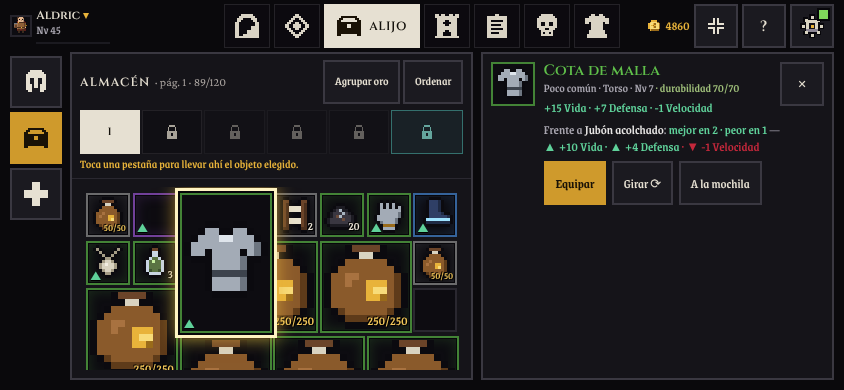
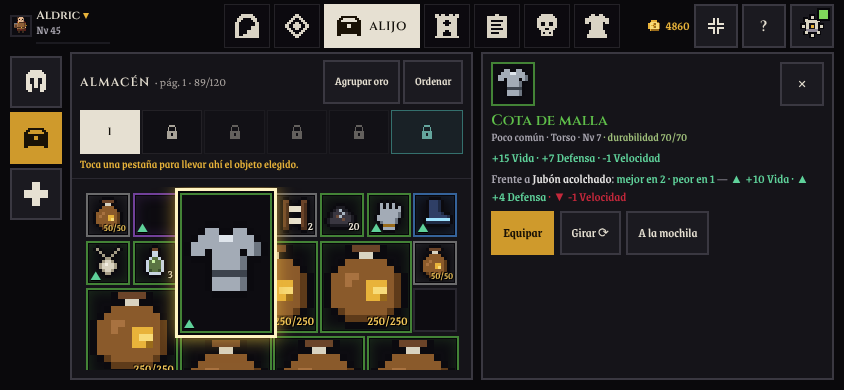
Gravevow (Vesrions 0.9.7.9)

Changed region(s): [[0.5545, 0.1538, 0.955, 0.6769]]

diff --git a/src/game/ui/screens/Alijo.tsx b/src/game/ui/screens/Alijo.tsx
@@ -30,6 +30,10 @@ import { RecruitOffer } from '../RecruitOffer';
 import { baseBody } from '../../state/medicalActions';
 import { useLayout } from '../../../config/ui';
 import { ItemCard } from './ItemCard';
+import { PixelIcon } from '../../../shared/community';
+import { TAB_ICONS, VENDOR_TAB_ICONS } from '../kit/tabIcons';
+const HELM = ['...XXXXXX...', '..XXXXXXXX..', '.XXXXXXXXXX.', '.XXXXXXXXXX.', '.XX..XX..XX.', '.XX..XX..XX.', '.XX..XX..XX.', '.XXX.XX.XXX.', '.XXX.XX.XXX.', '.XXX....XXX.', '..XX....XX..', '............'];
+const SIDE_ICONS: Record<string, string[]> = { gear: HELM, storage: TAB_ICONS.stash, status: VENDOR_TAB_ICONS.infirmary };
 import { sfx } from '../../audio';
 import { SkinSlot, SkinPicker } from './Atuendos';
 import { HeroStats, LevelBar } from '../HeroStats';
@@ -130,17 +134,34 @@ export function Alijo({ onShop }: { onShop?: () => void }) {
     <StashPanel cols={stashCols} sel={sel} onSelect={onSelect} onEmpty={onEmpty}
       onQuick={(l, st) => { if (getItem(st.itemId).use?.kind === 'need') actions.eat(l); else actions.quickMove(l, 'backpack'); clear(); }} onAlt={(l) => { actions.quickMove(l, 'backpack'); clear(); }} />
   );
-  const card = <ItemCard loc={sel} mode={MODE} onClear={clear} compact={phone} />;
+  const card = <ItemCard loc={sel} mode={MODE} onClear={clear} compact={phone} stacked={(phone && view !== 'status') || (layout === 'tablet' && view === 'gear')} />;
   const status = <StatusView withNeeds={phone} />;
   const seg = (opts: { id: 'gear' | 'storage' | 'status'; label: string }[]) => (
     <Segmented options={opts} value={view} onChange={(v) => { setView(v); setSel(null); sfx('click'); }} testId="alijo-seg" />
   );
 
   if (phone) {
+    // Fase 3: pestañas en columna de iconos a la izquierda y ficha fija a la derecha (no tapa nada)
+    const opts = [{ id: 'gear', label: 'Equipo' }, { id: 'storage', label: 'Almacén' }, { id: 'status', label: 'Heridas' }] as const;
+    const tabs = (
+      <div className="vtabs-col alijo-side" role="tablist" aria-orientation="vertical" data-testid="alijo-seg">
+        {opts.map((o) => (
+          <button key={o.id} role="tab" aria-selected={view === o.id} aria-label={o.label} title={o.label} onClick={() => { setView(o.id); setSel(null); sfx('click'); }} data-testid={`seg-${o.id}`}>
+            <PixelIcon rows={SIDE_ICONS[o.id]} size={24} color={view === o.id ? '#1a1206' : 'currentColor'} />
+          </button>
+        ))}
+      </div>
+    );
+    const sheet = (
+      <Panel className="min-h-0 alijo-sheet" bodyClassName="overflow-y-auto scroll-thin" testId="item-sheet">
+        {sel ? <div className="relative"><button className="btn icon-btn absolute right-0 top-0" onClick={clear} aria-label="Cerrar la ficha">✕</button>{card}</div>
+          : <div className="h-full flex flex-col items-center justify-center text-center text-muted gap-2 px-2"><span className="font-display text-sm tracking-wide">{opts.find((o) => o.id === view)!.label}</span><span className="text-sm">Toca un objeto para ver su ficha aquí.</span></div>}
+      </Panel>
+    );
     return (
-      <div className="h-full flex flex-col items-center" style={{ padding: '0 max(var(--pad), env(safe-area-inset-right)) var(--pad) max(var(--pad), env(safe-area-inset-left))', gap: 'var(--gap)' }} data-testid="screen-stash">
-        {seg([{ id: 'gear', label: 'Equipo' }, { id: 'storage', label: 'Almacén' }, { id: 'status', label: 'Heridas' }])}
-        <div className="flex-1 min-h-0 w-full flex justify-center" style={{ gap: 'var(--gap)' }}>
+      <div className="h-full flex" style={{ padding: '0 max(var(--pad), env(safe-area-inset-right)) var(--pad) max(var(--pad), env(safe-area-inset-left))', gap: 'var(--gap)' }} data-testid="screen-stash">
+        {tabs}
+        <div className="flex-1 min-w-0 min-h-0 flex" style={{ gap: 'var(--gap)' }}>
           {view === 'status' ? (
             <>
               <Panel className="min-h-0 flex-[3]" bodyClassName="overflow-y-auto scroll-thin">{status}</Panel>
@@ -148,19 +169,20 @@ export function Alijo({ onShop }: { onShop?: () => void }) {
             </>
           ) : view === 'gear' ? (
             <>
-              <Panel className="min-h-0" bodyClassName="overflow-y-auto scroll-thin flex flex-col items-center"><RecruitOffer />{equipment}<div className="w-full mt-3" data-testid="alijo-hero"><LevelBar compact /><div className="mt-1"><HeroStats /></div></div></Panel>
-              <Panel className="min-h-0" bodyClassName="overflow-y-auto scroll-thin">{backpack}{pocket}</Panel>
+              <Panel className="min-h-0 shrink-0" bodyClassName="overflow-y-auto scroll-thin flex flex-col items-center"><div style={{ ['--slot-big' as string]: '44px' }}><RecruitOffer /><EquipmentGrid sel={sel} onSelect={onSelect} onEmpty={onEmpty} onDone={clear} onSkin={() => setPicker(true)} tight /></div><div className="w-full mt-3" data-testid="alijo-hero"><LevelBar compact /><div className="mt-1"><HeroStats /></div></div></Panel>
+              <Panel className="min-h-0 shrink-0" bodyClassName="overflow-y-auto scroll-thin">{backpack}{pocket}</Panel>
+              {sheet}
             </>
           ) : (
             <>
-              <Panel className="min-h-0" bodyClassName="overflow-y-auto scroll-thin">{backpack}</Panel>
               {storage}
+              {sel ? sheet : <Panel className="min-h-0 shrink-0" bodyClassName="overflow-y-auto scroll-thin">{backpack}</Panel>}
             </>
           )}
         </div>
         {pickerModal}
-        {sel && (
-          <div className="absolute left-0 right-0 bottom-0 z-30 panel panel-gold p-3" style={{ paddingLeft: 'max(12px, env(safe-area-inset-left))', paddingRight: 'max(12px, env(safe-area-inset-right))' }} data-testid="item-sheet">
+        {view === 'status' && sel && (
+          <div className="absolute left-0 right-0 bottom-0 z-30 panel panel-gold p-3" data-testid="item-sheet-status">
             <button className="btn icon-btn absolute right-2 top-2" onClick={clear} aria-label="Cerrar la ficha">✕</button>
             <div className="pr-12">{card}</div>
           </div>
@@ -169,7 +191,7 @@ export function Alijo({ onShop }: { onShop?: () => void }) {
     );
   }
 
-  const side = layout === 'tablet' ? 288 : compact ? 280 : 340;
+  const side = layout === 'tablet' ? 256 : compact ? 280 : 340;
   const goldBox = (
     <div className="panel p-3 mt-4 flex flex-col gap-1 text-sm" data-testid="gold-box">
       <div className="flex justify-between items-center"><span className="text-stone-300">Oro</span><GoldAmount value={profile.gold} /></div>
@@ -196,11 +218,18 @@ export function Alijo({ onShop }: { onShop?: () => void }) {
     {deskSeg}
     <div className="flex-1 min-h-0 grid"
       style={{ gridTemplateColumns: `${side}px minmax(0,1fr) auto`, gap: 'var(--gap)' }}>
+      {sel && layout === 'tablet' ? (
+        // Fase 3 (tableta): la ficha ocupa la columna del aventurero; mochila y almacén siguen a la vista
+        <Panel className="min-h-0" bodyClassName="overflow-y-auto scroll-thin" testId="item-sheet">
+          <div className="relative"><button className="btn icon-btn absolute right-0 top-0" onClick={clear} aria-label="Cerrar la ficha">✕</button>{card}</div>
+        </Panel>
+      ) : (
       <Panel title={g("{Aventurero|Aventurera}")} className="min-h-0" bodyClassName="overflow-y-auto scroll-thin flex flex-col" testId="alijo-hero">
         <HeroColumn />
       </Panel>
+      )}
       <Panel title="Equipo" className="min-h-0" bodyClassName="min-h-0 flex flex-col">
-        <div ref={eqRef} style={twoCols ? (compact ? { ['--slot' as string]: '44px', ['--slot-big' as string]: '60px' } : { ['--slot' as string]: '60px', ['--slot-big' as string]: '84px' }) : layout === 'tablet' ? { ['--slot' as string]: '46px' } : undefined} className={`flex-1 min-h-0 ${twoCols ? 'flex flex-col overflow-hidden' : 'overflow-y-auto scroll-thin'}`} data-testid="equip-body" data-cols={twoCols ? 2 : 1}>
+        <div ref={eqRef} style={twoCols ? (compact ? { ['--slot' as string]: '44px', ['--slot-big' as string]: '60px' } : { ['--slot' as string]: '60px', ['--slot-big' as string]: '84px' }) : layout === 'tablet' ? { ['--slot' as string]: '44px' } : undefined} className={`flex-1 min-h-0 ${twoCols ? 'flex flex-col overflow-hidden' : 'overflow-y-auto scroll-thin'}`} data-testid="equip-body" data-cols={twoCols ? 2 : 1}>
           <div className="mb-3 shrink-0"><RecruitOffer /></div>
           {twoCols ? (
             // Escritorio ancho: equipo a la izquierda, mochila + bolsillo + oro a la derecha (sin desplazar)
@@ -219,7 +248,7 @@ export function Alijo({ onShop }: { onShop?: () => void }) {
           )}
         </div>
         {/* La ficha solo aparece al elegir un objeto (la ayuda de uso ya la enseñan el tutorial, la Intendencia y la Guía) */}
-        {sel && <div className="panel p-3 mt-3 shrink-0" data-testid="item-card-wrap">{card}</div>}
+        {sel && layout !== 'tablet' && <div className="panel p-3 mt-3 shrink-0" data-testid="item-card-wrap">{card}</div>}
       </Panel>
       {storage}
       {pickerModal}

diff --git a/src/game/ui/DungeonScreen.tsx b/src/game/ui/DungeonScreen.tsx
@@ -36,6 +36,9 @@ import { RISK, GOLD_SHARE, SHARE_FAIR_RATIO, GRIZK_REP, type RiskLevel } from '.
 import { shareVerdict } from '../../core/social';
 import { pinnedQuests, questDef, questProgress } from '../../core/quests';
 import { planPayment } from '../../core/share';
+import { useLayout } from '../../config/ui';
+import { Panel } from './kit';
+import { ItemCard } from './screens/ItemCard';
 
 export function DungeonScreen() {
   const host = useRef<HTMLDivElement>(null);
@@ -355,6 +358,7 @@ function ShareMeter({ given, total, single, name }: { given: number; total: numb
 
 function LootModal() {
   const s = useGame((x) => x);
+  const layout = useLayout();
   const [sel, setSel] = useState<Loc | null>(null);
   const [splitGive, setSplitGive] = useState(false);
   useClearOnDrop(useCallback(() => setSel(null), []));
@@ -363,6 +367,47 @@ function LootModal() {
   const grid = s.chests[session.id] ?? s.bags[session.id]?.grid ?? [];
   const share = session.shareAsked && s.rival.disposition === 'allied';
   const selStack = sel?.kind === 'grid' && sel.container === 'loot' ? grid[sel.index] : null;
+  if (layout !== 'desktop') {
+    // Fase 3 (tableta y móvil): «Del saco» | «Tuyo» | ficha, y «Cogerlo todo» como acción principal abajo
+    const phone = layout === 'phone';
+    const who = getWanderer(s.rival.who).name.split(' ')[0];
+    return (
+      <div className="absolute inset-0 z-50 flex fade-in inv-full" data-testid="loot-modal">
+        <Panel className="min-h-0 shrink-0 loot-from" bodyClassName="overflow-y-auto scroll-thin">
+          <div className="panel-title mb-2">{session.title}</div>
+          <GridView grid={grid} container="loot" cols={phone ? 4 : 6} lootId={session.id} equipment={s.expedition.equipment} mode="dungeon" selected={sel} onSelect={setSel}
+            onQuick={(l) => actions.quickMove(l, 'backpack', session.id)} onAlt={(l) => actions.quickMove(l, 'backpack', session.id)} />
+          {grid.every((x) => !x) && <p className="text-muted text-sm mt-2">Vacío.</p>}
+        </Panel>
+        <Panel className="min-h-0 shrink-0" bodyClassName="overflow-y-auto scroll-thin">
+          <div className="panel-title mb-2">Tuyo · {s.expedition.backpack.filter(Boolean).length}/{s.expedition.backpack.length}</div>
+          <GridView grid={s.expedition.backpack} container="backpack" cols={6} lootId={session.id} equipment={s.expedition.equipment} mode="dungeon"
+            onQuick={(l) => actions.quickMove(l, 'loot', session.id)} onAlt={(l) => actions.quickMove(l, 'loot', session.id)} />
+          {!s.tutorial && <CarryBar className="mt-2" />}
+        </Panel>
+        <Panel className="min-h-0 flex-1 min-w-0" bodyClassName="min-h-0 h-full flex flex-col">
+          <div className="flex justify-end mb-2"><button className="btn" onClick={() => actions.closeLoot()} data-testid="btn-close-loot">Cerrar ✕</button></div>
+          <div className="flex-1 min-h-0 overflow-y-auto scroll-thin">
+            {share && <div className="text-sm mb-2"><b className="text-heal">{who} espera su parte.</b> Elige algo y pulsa «Dar».<ShareMeter given={session.givenValue ?? 0} total={session.totalValue ?? 0} single={session.single} name={who} /></div>}
+            {selStack ? (
+              <div className="flex flex-col gap-2 items-start">
+                <ItemIcon itemId={selStack.itemId} size={44} />
+                <span className="font-display" style={{ color: RARITY_INFO[getItem(selStack.itemId).rarity].color }}>{getItem(selStack.itemId).name}{selStack.qty > 1 ? ` · ${selStack.qty}` : ''}</span>
+                <div className="flex gap-2 flex-wrap">
+                  <button className="btn" onClick={() => { actions.quickMove(sel!, 'backpack', session.id); setSel(null); }}>Coger</button>
+                  {share && <button className="btn" onClick={() => { actions.giveToRival(session.id, (sel as { index: number }).index); setSel(null); }} data-testid="btn-give">Dar a {who}</button>}
+                </div>
+              </div>
+            ) : <div className="text-muted text-sm">Toca un objeto del saco para verlo, o cógelo todo.</div>}
+          </div>
+          <div className="flex flex-col gap-2 mt-2">
+            {grid.some((x) => x?.itemId === 'gold_coins') && <button className="btn" onClick={() => actions.takeGold(session.id)} data-testid="btn-take-gold">Coger el oro ({gridGold(grid)})</button>}
+            <button className="btn btn-gold" style={{ minHeight: 52 }} onClick={() => actions.takeAll(session.id)} data-testid="btn-take-all">Cogerlo todo</button>
+          </div>
+        </Panel>
+      </div>
+    );
+  }
   return (
     <Modal onClose={() => actions.closeLoot()} wide testId="loot-modal">
       <div className="flex items-center justify-between mb-3 gap-2 sticky top-0 z-10 py-1" style={{ background: '#16151b' }}>
@@ -595,12 +640,39 @@ function ConfirmBetray() {
 
 function DungeonInventory() {
   const s = useGame((x) => x);
+  const layout = useLayout();
   const [sel, setSel] = useState<Loc | null>(null);
   useClearOnDrop(useCallback(() => setSel(null), []));
   const clear = useCallback(() => setSel(null), []);
   if (!s.expedition || !s.profile) return null;
   const ch = s.profile.character;
   const stats = computeStats(ch.classId, ch.level, s.expedition.equipment);
+  if (layout !== 'desktop') {
+    // Fase 3 (tableta y móvil): pantalla completa en tres columnas; la ficha a la derecha no tapa nada
+    const phone = layout === 'phone';
+    return (
+      <div className="absolute inset-0 z-50 flex fade-in inv-full" data-testid="dungeon-inventory">
+        <Panel className="min-h-0 shrink-0" bodyClassName="overflow-y-auto scroll-thin">
+          <EquipmentView equipment={s.expedition.equipment} selected={sel} onSelect={setSel} mode="dungeon" portrait={<PlayerSprite scale={phone ? 2 : 4} />} />
+          <div className="mt-3"><StatsList stats={stats} resourceName={CLASSES[ch.classId].resourceName} /></div>
+        </Panel>
+        <Panel className="min-h-0 shrink-0" bodyClassName="overflow-y-auto scroll-thin">
+          <div className="flex items-center justify-between gap-2 mb-2"><span className="panel-title">Mochila · {s.expedition.backpack.filter(Boolean).length}/{s.expedition.backpack.length}</span>
+            <span className="flex gap-1"><button className="btn text-sm" onClick={() => actions.groupGold('backpack')} data-testid="group-gold-dungeon">Agrupar oro</button><button className="btn text-sm" onClick={() => actions.sortContainer('backpack')}>Ordenar</button></span></div>
+          <GridView grid={s.expedition.backpack} container="backpack" cols={6} equipment={s.expedition.equipment} mode="dungeon" selected={sel} onSelect={setSel}
+            onQuick={(l, st) => (getItem(st.itemId).slot ? actions.quickEquip(l) : getItem(st.itemId).use ? actions.useItem(l) : undefined)} />
+          {!s.tutorial && <CarryBar className="mt-2" />}
+          <div className="mt-3 text-sm text-gold mb-1">Bolsillo seguro · no se pierde al morir</div>
+          <GridView grid={s.expedition.pocket} container="pocket" cols={3} equipment={s.expedition.equipment} mode="dungeon" selected={sel} onSelect={setSel} onQuick={(l) => actions.quickMove(l, 'backpack')} />
+        </Panel>
+        <Panel className="min-h-0 flex-1 min-w-0" bodyClassName="overflow-y-auto scroll-thin flex flex-col">
+          <div className="flex justify-end mb-2"><button className="btn" onClick={() => actions.closeModal()} data-testid="btn-close-inventory">Cerrar ✕</button></div>
+          {sel ? <ItemCard loc={sel} mode="dungeon" onClear={clear} compact={phone} stacked />
+            : <div className="flex-1 flex items-center justify-center text-center text-muted text-sm px-2">Toca un objeto para ver su ficha aquí.</div>}
+        </Panel>
+      </div>
+    );
+  }
   return (
     <Modal onClose={() => actions.closeModal()} wide testId="dungeon-inventory">
       <div className="flex items-center justify-between mb-3"><h2 className="panel-title text-xl">Inventario</h2><div className="flex gap-2">

diff --git a/mockups/fase3-inventario/index.html b/mockups/fase3-inventario/index.html
@@ -1,1 +1,1 @@
-<!doctype html><meta charset=utf-8><title>Fase 3 · Alijo móvil</title><style>body{background:#111;color:#ddd;font-family:sans-serif;padding:20px}.r{display:flex;gap:16px;flex-wrap:wrap}img{width:844px;max-width:100%;border:1px solid #444}</style><h1>Fase 3 · Alijo en el móvil: pestañas en columna de iconos y ficha fija a la derecha</h1><h2>1-equipo</h2><div class=r><figure><img src="antes/movil-1-equipo.png"><figcaption>Antes</figcaption></figure><figure><img src="despues/movil-1-equipo.png"><figcaption>Maqueta</figcaption></figure></div><h2>2-ficha</h2><div class=r><figure><img src="antes/movil-2-ficha.png"><figcaption>Antes</figcaption></figure><figure><img src="despues/movil-2-ficha.png"><figcaption>Maqueta</figcaption></figure></div><h2>3-almacen</h2><div class=r><figure><img src="antes/movil-3-almacen.png"><figcaption>Antes</figcaption></figure><figure><img src="despues/movil-3-almacen.png"><figcaption>Maqueta</figcaption></figure></div><h2>3b-almacen-ficha</h2><div class=r><figure><img src="antes/movil-3b-almacen-ficha.png"><figcaption>Antes</figcaption></figure><figure><img src="despues/movil-3b-almacen-ficha.png"><figcaption>Maqueta</figcaption></figure></div><h2>4-heridas</h2><div class=r><figure><img src="antes/movil-4-heridas.png"><figcaption>Antes</figcaption></figure><figure><img src="despues/movil-4-heridas.png"><figcaption>Maqueta</figcaption></figure></div>
+<!doctype html><meta charset=utf-8><title>Fase 3 · Inventario</title><style>body{background:#111;color:#ddd;font-family:sans-serif;padding:20px}.r{display:flex;gap:16px;flex-wrap:wrap;align-items:flex-start}img{max-width:900px;width:100%;border:1px solid #444}figure{margin:0;flex:1;min-width:300px}</style><h1>Fase 3 · Inventario: antes y resultado real</h1><h2>escritorio</h2><h3>1-equipo</h3><div class=r><figure><img src="antes/escritorio-1-equipo.png"><figcaption>Antes</figcaption></figure><figure><img src="real/escritorio-1-equipo.png"><figcaption>Real</figcaption></figure></div><h3>2-ficha</h3><div class=r><figure><img src="antes/escritorio-2-ficha.png"><figcaption>Antes</figcaption></figure><figure><img src="real/escritorio-2-ficha.png"><figcaption>Real</figcaption></figure></div><h3>4-heridas</h3><div class=r><figure><img src="antes/escritorio-4-heridas.png"><figcaption>Antes</figcaption></figure><figure><img src="real/escritorio-4-heridas.png"><figcaption>Real</figcaption></figure></div><h3>5-expedicion-inventario</h3><div class=r><figure><img src="antes/escritorio-5-expedicion-inventario.png"><figcaption>Antes</figcaption></figure><figure><img src="real/escritorio-5-expedicion-inventario.png"><figcaption>Real</figcaption></figure></div><h3>5b-expedicion-ficha</h3><div class=r><figure>(antes no había esta vista)</figure><figure><img src="real/escritorio-5b-expedicion-ficha.png"><figcaption>Real</figcaption></figure></div><h3>6-saco</h3><div class=r><figure><img src="antes/escritorio-6-saco.png"><figcaption>Antes</figcaption></figure><figure><img src="real/escritorio-6-saco.png"><figcaption>Real</figcaption></figure></div><h3>6b-saco-ficha</h3><div class=r><figure>(antes no había esta vista)</figure><figure><img src="real/escritorio-6b-saco-ficha.png"><figcaption>Real</figcaption></figure></div><h2>tableta</h2><h3>1-equipo</h3><div class=r><figure><img src="antes/tableta-1-equipo.png"><figcaption>Antes</figcaption></figure><figure><img src="real/tableta-1-equipo.png"><figcaption>Real</figcaption></figure></div><h3>2-ficha</h3><div class=r><figure><img src="antes/tableta-2-ficha.png"><figcaption>Antes</figcaption></figure><figure><img src="real/tableta-2-ficha.png"><figcaption>Real</figcaption></figure></div><h3>4-heridas</h3><div class=r><figure><img src="antes/tableta-4-heridas.png"><figcaption>Antes</figcaption></figure><figure><img src="real/tableta-4-heridas.png"><figcaption>Real</figcaption></figure></div><h3>5-expedicion-inventario</h3><div class=r><figure><img src="antes/tableta-5-expedicion-inventario.png"><figcaption>Antes</figcaption></figure><figure><img src="real/tableta-5-expedicion-inventario.png"><figcaption>Real</figcaption></figure></div><h3>5b-expedicion-ficha</h3><div class=r><figure>(antes no había esta vista)</figure><figure><img src="real/tableta-5b-expedicion-ficha.png"><figcaption>Real</figcaption></figure></div><h3>6-saco</h3><div class=r><figure><img src="antes/tableta-6-saco.png"><figcaption>Antes</figcaption></figure><figure><img src="real/tableta-6-saco.png"><figcaption>Real</figcaption></figure></div><h3>6b-saco-ficha</h3><div class=r><figure>(antes no había esta vista)</figure><figure><img src="real/tableta-6b-saco-ficha.png"><figcaption>Real</figcaption></figure></div><h2>movil</h2><h3>1-equipo</h3><div class=r><figure><img src="antes/movil-1-equipo.png"><figcaption>Antes</figcaption></figure><figure><img src="real/movil-1-equipo.png"><figcaption>Real</figcaption></figure></div><h3>2-ficha</h3><div class=r><figure><img src="antes/movil-2-ficha.png"><figcaption>Antes</figcaption></figure><figure><img src="real/movil-2-ficha.png"><figcaption>Real</figcaption></figure></div><h3>3-almacen</h3><div class=r><figure><img src="antes/movil-3-almacen.png"><figcaption>Antes</figcaption></figure><figure><img src="real/movil-3-almacen.png"><figcaption>Real</figcaption></figure></div><h3>3b-almacen-ficha</h3><div class=r><figure>(antes no había esta vista)</figure><figure><img src="real/movil-3b-almacen-ficha.png"><figcaption>Real</figcaption></figure></div><h3>4-heridas</h3><div class=r><figure><img src="antes/movil-4-heridas.png"><figcaption>Antes</figcaption></figure><figure><img src="real/movil-4-heridas.png"><figcaption>Real</figcaption></figure></div><h3>5-expedicion-inventario</h3><div class=r><figure><img src="antes/movil-5-expedicion-inventario.png"><figcaption>Antes</figcaption></figure><figure><img src="real/movil-5-expedicion-inventario.png"><figcaption>Real</figcaption></figure></div><h3>5b-expedicion-ficha</h3><div class=r><figure>(antes no había esta vista)</figure><figure><img src="real/movil-5b-expedicion-ficha.png"><figcaption>Real</figcaption></figure></div><h3>6-saco</h3><div class=r><figure><img src="antes/movil-6-saco.png"><figcaption>Antes</figcaption></figure><figure><img src="real/movil-6-saco.png"><figcaption>Real</figcaption></figure></div><h3>6b-saco-ficha</h3><div class=r><figure>(antes no había esta vista)</figure><figure><img src="real/movil-6b-saco-ficha.png"><figcaption>Real</figcaption></figure></div>

diff --git a/src/game/ui/screens/ItemCard.tsx b/src/game/ui/screens/ItemCard.tsx
@@ -18,7 +18,7 @@ import { useIsTouch } from '../../../shared/device';
 
 const CATEGORY: Record<string, string> = { potion: 'Consumible', material: 'Material', relic: 'Reliquia', jewel: 'Joya', key: 'Llave', quest: 'Objeto de misión', coin: 'Moneda', gold: 'Oro', container: 'Saco de oro', weapon: 'Arma', shield: 'Escudo', tool: 'Herramienta' };
 
-export function ItemCard({ loc, mode, onClear, compact = false }: { loc: Loc | null; mode: InvMode; onClear: () => void; compact?: boolean }) {
+export function ItemCard({ loc, mode, onClear, compact = false, stacked = false }: { loc: Loc | null; mode: InvMode; onClear: () => void; compact?: boolean; stacked?: boolean }) {
   const s = useGame((x) => x);
   const touch = useIsTouch();
   const c = containersFor(s);
@@ -42,9 +42,9 @@ export function ItemCard({ loc, mode, onClear, compact = false }: { loc: Loc | n
   const cmp = loc.kind === 'grid' ? compareWithEquipped(st, s.profile?.equipment) : null;
   const wornSpecials = cmp?.worn && (def.slot === 'mainHand' || def.slot === 'offHand') ? itemSpecials(getItem(cmp.worn.itemId)) : [];
   return (
-    <div className="flex gap-3 items-start" data-testid="item-card">
+    <div className={stacked ? "flex flex-col gap-2 items-start" : "flex gap-3 items-start"} data-testid="item-card">
       <div className="slot shrink-0" style={{ borderColor: r.color + 'aa' }}><ItemIcon itemId={st.itemId} />{st.qty > 1 && <span className="qty">{st.qty}</span>}</div>
-      <div className="min-w-0 flex-1">
+      <div className={stacked ? "min-w-0 w-full" : "min-w-0 flex-1"}>
         <div className="font-display leading-tight" style={{ color: r.color, fontSize: compact ? 15 : 18 }} data-testid="item-card-name">{stackName(st, def)}</div>
         <div className="text-[11px] text-stone-400">
           {r.name} · {def.slot ? SLOT_LABELS[def.slot] : CATEGORY[def.category] ?? def.category}

diff --git a/src/game/ui/NeedsBars.tsx b/src/game/ui/NeedsBars.tsx
@@ -10,7 +10,7 @@ import { useEffect, useRef, useState } from 'react';
 import { useIsTouch } from '../../shared/device';
 import { FOOD } from '../../config/food';
 
-const SHORT: Record<Need, string> = { sat: 'Sac', hyd: 'Hid', rest: 'Des' };
+const SHORT: Record<Need, string> = { sat: 'Saciedad', hyd: 'Hidratación', rest: 'Descanso' };
 const EATS: Need[] = ['sat', 'hyd'];
 
 /** Lo que se puede comer (sat) o beber (hyd) de la mochila; los platos del Refugio se comen allí. */
@@ -103,7 +103,7 @@ export function NeedsPanel({ needs, body, backpack, onShowFood, note, atBase = f
               <b>{Math.floor(v)}</b>
             </div>
             <NeedBar v={v} color={NEED_COLOR[k]} big />
-            <div className="needs-hint">{atBase ? 'En el Bastión no se gasta.' : nextText(k, needs, body)}</div>
+            {!atBase && <div className="needs-hint">{nextText(k, needs, body)}</div>}
             {hint && (onShowFood
               ? <button className={`needs-food-hint ${touch ? 'touch' : ''}`} onClick={() => onShowFood(list.map((x) => x.id))} data-testid={`need-food-${k}`}>{hint} ›</button>
               : <div className="needs-food-hint static" data-testid={`need-food-${k}`}>{hint}.</div>)}
@@ -112,7 +112,7 @@ export function NeedsPanel({ needs, body, backpack, onShowFood, note, atBase = f
       })}
       <div className="needs-note">
         {loss > 0 ? `Tu Ímpetu o Maná máximo baja un ${Math.round(loss * 100)} %. ` : ''}
-        {note ?? 'Solo se gastan mientras exploras o combates; en el Bastión, no.'}
+        {note ?? (atBase ? 'En el Bastión no se gastan.' : 'Solo se gastan mientras exploras o combates; en el Bastión, no.')}
       </div>
     </div>
   );

diff --git a/src/game/game.css b/src/game/game.css
@@ -575,7 +575,7 @@ html.is-touch .tut-guide { top: auto; bottom: max(8px, env(safe-area-inset-botto
 /* Necesidades (Fase 5) */
 .needs-strip{display:flex;gap:4px;margin-top:4px}
 .needs-cell{flex:1;min-width:0}
-.needs-lbl{display:flex;justify-content:space-between;font-size:10px;line-height:11px;color:#a8a29e}
+.needs-lbl{display:flex;justify-content:space-between;gap:4px;font-size:12px;line-height:14px;color:#a8a29e;white-space:nowrap}
 .needs-lbl b{font-weight:400;color:#e8b33a}
 .needs-cell.critical .needs-lbl b,.needs-cell.empty .needs-lbl b{color:#ff4050}
 .needs-cell.critical .needs-bar,.needs-cell.empty .needs-bar{animation:needs-blink 1.2s steps(2) infinite}
@@ -965,3 +965,8 @@ html.is-touch .tut-guide { top: auto; bottom: max(8px, env(safe-area-inset-botto
 .vback-card:hover{background:var(--surface-hi);color:var(--color-stone-300)}
 .vback-art{display:flex;align-items:flex-end;justify-content:center}
 .vback-lbl{font-family:var(--font-display);font-size:17px;letter-spacing:.06em;color:var(--color-parchment)}
+/* Fase 3 del plan de interfaz (19/11): inventario sin ficha encima */
+.alijo-side{width:52px;flex-shrink:0;padding-top:4px}
+.alijo-side button{justify-content:center;padding:0;min-height:52px}
+.alijo-sheet{flex:1 1 0;min-width:0}
+.inv-full{background:var(--color-stone-950,#0e0d12);padding:max(var(--pad),env(safe-area-inset-top)) max(var(--pad),env(safe-area-inset-right)) var(--pad) max(var(--pad),env(safe-area-inset-left));gap:var(--gap)}

diff --git a/docs/plan-mejora-interfaz.md b/docs/plan-mejora-interfaz.md
@@ -1,6 +1,6 @@
 # Plan de mejora visual y de usabilidad de los menús y el HUD
 
-Fecha: 19/11/2026 · Estado: plan aprobado. **Fases 0, 1 y 2 hechas** (19/11). Siguiente: maqueta de la fase 3 (inventario).
+Fecha: 19/11/2026 · Estado: plan aprobado. **Fases 0, 1, 2 y 3 hechas** (19/11). Siguiente: maqueta de la fase 4 (HUD de exploración).
 
 Capturas del estado actual en los tres formatos, con los problemas marcados: `mockups/plan-interfaz/index.html`
 (carpeta `mockups/plan-interfaz/actual/`, script `mockups/plan-interfaz/capturar.cjs`). En el índice, cada número rojo es un
@@ -215,7 +215,8 @@ Hecho: paleta, paneles y botones planos, niveles de botón, desactivado legible,
 - **Riesgos:** comprar pasa de un toque a dos en táctil → se mide en la maqueta; si molesta, se deja el botón de precio pero en estilo secundario y solo el de la fila elegida en dorado. Economía y precios sin cambios.
 - **Capturas:** Tienda, Vender, Reparar y Curtiduría de Nira en los tres formatos, antes/después.
 
-### Fase 3 · Inventario (grande)
+### Fase 3 · Inventario (grande) — HECHA el 19/11
+- **Hecho:** la ficha del objeto nunca tapa la mochila. Móvil: pestañas Equipo/Almacén/Heridas en columna de iconos a la izquierda (`seg-*` iguales) y ficha fija a la derecha, apilada (icono, texto, botones; `ItemCard stacked`); en Almacén la ficha ocupa el sitio de la mochila (✕ la devuelve). Tableta: la ficha ocupa la columna del Aventurero. Inventario de la expedición y saco de botín en tableta y móvil: pantalla completa en tres columnas (saco: «Del saco» | «Tuyo» | acciones con «Cogerlo todo» dorado abajo). Necesidades con nombre completo a 12 px (P-09) y un solo aviso «En el Bastión no se gastan» al pie (P-19). Pendiente: `ContainerTools` común (P-18) e icono de «equipado». Maqueta y capturas: `mockups/fase3-inventario/`.
 - **Pantallas:** Alijo › Equipo, Almacén y Heridas; inventario de la expedición; saco de botín; ficha del objeto.
 - **Qué:** `ContainerTools` en los tres sitios (P-18); estado «equipado» con icono; saco de botín con «Tuyo / Del saco» y «Cogerlo todo» como principal abajo (P-26); avisos repetidos de Heridas en una sola línea al pie (P-19); necesidades con nombre completo e icono (P-09).
 - **Archivos:** `screens/Alijo.tsx`, `StashPanel.tsx`, `inventory.tsx`, `DungeonScreen.tsx` (modal de inventario y saco), `NeedsBars.tsx`, `BodyFigure.tsx`, `screens/ItemCard.tsx`.

diff --git a/docs/guia-interfaz.md b/docs/guia-interfaz.md
@@ -253,3 +253,8 @@ Sin botón «Ver detalles». En el móvil, nivel y atributos van bajo el equipo,
 - **Columna izquierda (los tres formatos):** tarjeta del mercader igual que en la página Bastión (`vtile vcard`: nombre, busto, lugar, estado de la estación, reputación y descuento), debajo las pestañas en columna (`.vtabs-col`, botones de 48 px —44 en móvil— con icono 12×12 a ×2 de `VENDOR_TAB_ICONS`; la activa en dorado), el aviso «Pendiente» y, al final, la tarjeta «◂ Volver al Bastión» (`.vback-card`, silueta `BASTION_SKYLINE` a ×6 en escritorio y ×4 en tableta; en tableta el rótulo es «◂ Bastión»). En el móvil: retrato pequeño y nombre, pestañas y el botón `.vback`. El `data-testid` `vendor-back` está en la tarjeta o el botón.
 - **Tienda:** `ShopStock` pinta filas `.shop-row` (`shop-row-<id>`); tocar elige (borde dorado). La ficha es `ShopCard`, con el único botón dorado `buy-<id>` («Comprar · N oro»; si no llega el oro, botón secundario «Te faltan N de oro»). En escritorio y tableta va en la columna derecha encima de «Tu mochila · n/24»; en el móvil sale encima (`shop-card-overlay`, cerrar con `shop-card-close`). Doble clic en una fila compra. Precio: `PriceTag` (texto dorado con moneda; rojo si no llega). Bloqueado: atenuado con candado y rango; «Otra clase» en rojo.
 - **Sin título de panel** en el centro (el nombre ya está en la tarjeta). Los scripts que compran tocan antes `shop-row-<id>`.
+
+## Ficha de objeto (fase 3)
+- Regla: la ficha nunca se pone encima de la mochila ni del contenedor del que sale el objeto. Ocupa una columna propia o la de algo secundario (Aventurero en tableta, la mochila en la vista Almacén del móvil).
+- En columnas estrechas, `ItemCard stacked`: icono arriba, texto a todo el ancho y botones debajo.
+- Fuera del escritorio, inventario de la expedición y saco de botín a pantalla completa, con «Cerrar ✕» arriba a la derecha y la acción principal dorada abajo.

diff --git a/docs/estado-trabajo.md b/docs/estado-trabajo.md
@@ -762,3 +762,8 @@ bienvenida explica ficha, arrastrar y doble clic (antes iba en la barra). Captur
 - 2026-11-15: /cookies.html bloqueada en robots.txt y retirada del sitemap.
 - 2026-11-15: cookies.html pasa a noindex (meta robots) y se quita su Disallow para que Google pueda leerlo y desindexarla.
 - 2026-11-15: favicon.ico, PNG 48/96/192 y apple-touch-icon generados desde favicon.svg (escalado nearest) y enlazados en index.html.
+
+## Novedades del 19/11 (4) · Fase 3 del plan de interfaz (inventario)
+- La ficha del objeto ya no tapa la mochila en tableta ni en móvil (ver `docs/plan-mejora-interfaz.md`, fase 3). Archivos: `screens/Alijo.tsx`, `screens/ItemCard.tsx` (`stacked`), `DungeonScreen.tsx` (inventario y saco en pantalla completa fuera del escritorio), `NeedsBars.tsx`, `game.css`.
+- Mercader en escritorio: tarjeta «Volver al Bastión» más pequeña (muralla a 128 px, 64 px en ventanas de menos de 960 px de alto) para que la columna no necesite barra de desplazamiento.
+- `scripts/almacen-check.cjs`: en el móvil cierra la ficha antes de «Agrupar oro». `arrastre-check.cjs` ya fallaba antes de este cambio (sin tocar).

diff --git a/ESTADO_PROYECTO.md b/ESTADO_PROYECTO.md
@@ -191,3 +191,4 @@
 - 2026-11-15: /cookies.html bloqueada en robots.txt y retirada del sitemap.
 - 2026-11-15: cookies.html pasa a noindex (meta robots) y se quita su Disallow para que Google pueda leerlo y desindexarla.
 - 2026-11-15: favicon.ico, PNG 48/96/192 y apple-touch-icon generados desde favicon.svg (escalado nearest) y enlazados en index.html.
+- 19/11: fase 3 del plan de interfaz hecha (inventario: ficha que no tapa, saco de botín con «Cogerlo todo» abajo, necesidades con nombre completo).
